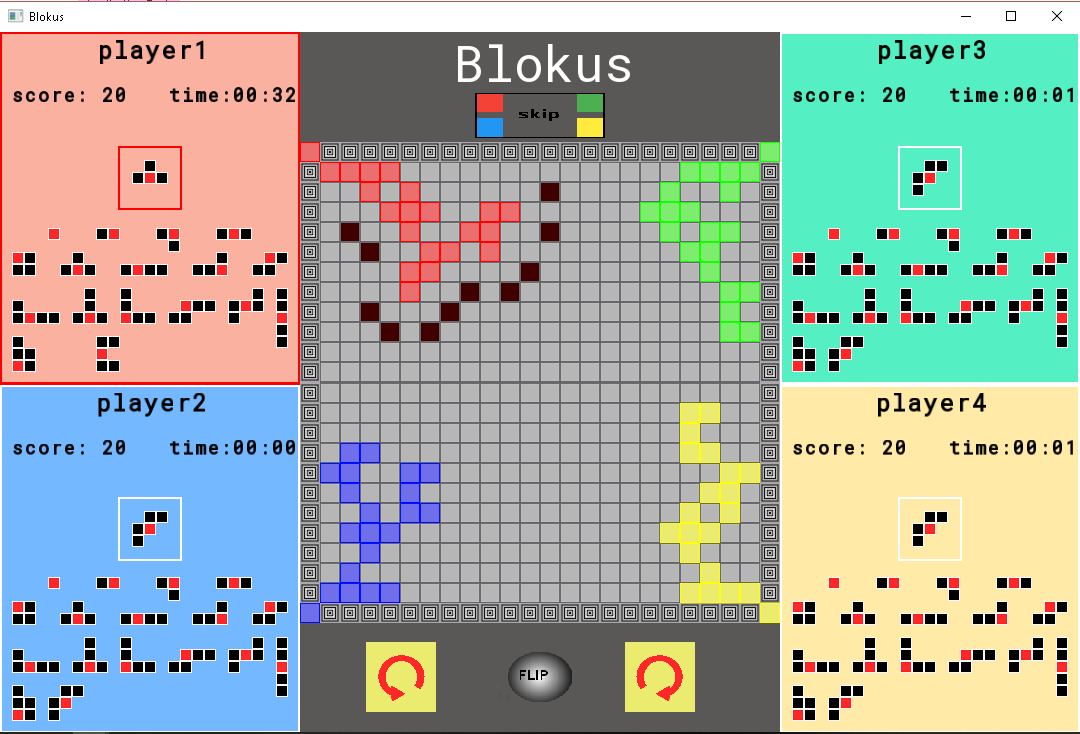
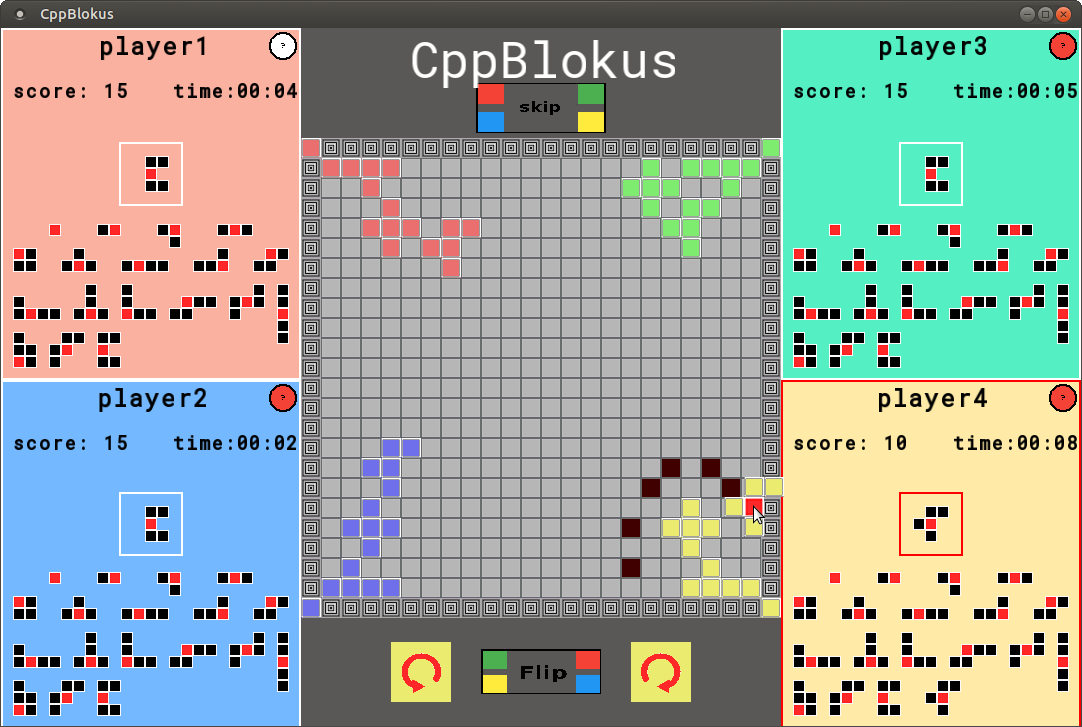
add help buttons

diff --git a/blokus.cc b/blokus.cc
@@ -645,6 +645,7 @@ player set_Player(int id,sf::Color color,int time,tile tiles[]){
   tmp.pboard   =set_Player_Hand(tilesTableWithCenter);
   tmp.canPlay  =true;
   tmp.bot      =false;
+  tmp.showHelp = false;
   return tmp;
 }
 
@@ -709,7 +710,7 @@ int main() {
 
   }
 
-  sf::Text title("Blokus", font, 50);
+  sf::Text title("CppBlokus", font, 50);
   title.setPosition(Vector2f(((window_width/2 - title.getLocalBounds().width/2)),0.0));
 
   RenderWindow window(VideoMode(window_width, window_height), title.getString());
@@ -804,37 +805,13 @@ int main() {
   FooterS.setPosition(Footer.x,Footer.y);
   FooterS.setFillColor(Footer.color);
 
-  /**********************************************************************************/
-
-
-  Rectangle rotate_Clock_WiseR;
-
-  rotate_Clock_WiseR.width  = window_height*0.1;
-  rotate_Clock_WiseR.height = window_height*0.1;
-  rotate_Clock_WiseR.x      = Footer.x+Footer.width/2+Footer.width/4-rotate_Clock_WiseR.width/2;
-  rotate_Clock_WiseR.y      = Footer.y+Footer.height/2-rotate_Clock_WiseR.height/2;;
-
-
-  sf::Texture rotate_Clock_WiseRTexture;
-
-  if (!rotate_Clock_WiseRTexture.loadFromFile("res/CWrotate.png"))
-  {
-    cout << "cant load the Texture file associated to rotate_Clock_Wise button : res/CWrotate.png";
-  }
-
-
-  RectangleShape rotate_Clock_WiseRS;
-
-  rotate_Clock_WiseRS.setSize(Vector2f(rotate_Clock_WiseR.width,rotate_Clock_WiseR.height));
-  rotate_Clock_WiseRS.setPosition(rotate_Clock_WiseR.x,rotate_Clock_WiseR.y);
-  rotate_Clock_WiseRS.setTexture(&rotate_Clock_WiseRTexture);
 
   /********************************************************************************************/
 
   Rectangle skip_turn_buttonR;
 
   skip_turn_buttonR.width   = 130;
-  skip_turn_buttonR.height  = 45;
+  skip_turn_buttonR.height  = 50;
   skip_turn_buttonR.x       = Footer.x+Footer.width/2-skip_turn_buttonR.width/2;
   skip_turn_buttonR.y       = main_board_position_y-skip_turn_buttonR.height-skip_turn_buttonR.height/10;
 
@@ -855,8 +832,8 @@ int main() {
 
   Rectangle flip_tile_buttonR;
 
-  flip_tile_buttonR.width  = window_width*0.1;
-  flip_tile_buttonR.height = window_height*0.1;
+  flip_tile_buttonR.width  = 120;
+  flip_tile_buttonR.height = 45;
   flip_tile_buttonR.x      = Footer.x+Footer.width/2-flip_tile_buttonR.width/2;
   flip_tile_buttonR.y      = Footer.y+(Footer.height/2)-flip_tile_buttonR.height/2;
 
@@ -879,9 +856,9 @@ int main() {
 
   Rectangle rotate_Counter_Clock_WiseR;
 
-  rotate_Counter_Clock_WiseR.width  = window_width*0.1;
-  rotate_Counter_Clock_WiseR.height = window_height*0.1;
-  rotate_Counter_Clock_WiseR.x      = Footer.x+Footer.width/4-rotate_Counter_Clock_WiseR.width/2;
+  rotate_Counter_Clock_WiseR.width  = 60;
+  rotate_Counter_Clock_WiseR.height = 60;
+  rotate_Counter_Clock_WiseR.x      = Footer.x+Footer.width/2- Footer.width/4-rotate_Counter_Clock_WiseR.width/2;
   rotate_Counter_Clock_WiseR.y      = Footer.y+Footer.height/2-rotate_Counter_Clock_WiseR.height/2;;
 
 
@@ -894,10 +871,34 @@ int main() {
 
 
   RectangleShape rotate_Counter_Clock_WiseRS;
-  rotate_Counter_Clock_WiseRS.setSize(Vector2f(rotate_Clock_WiseR.width,rotate_Counter_Clock_WiseR.height));
+  rotate_Counter_Clock_WiseRS.setSize(Vector2f(rotate_Counter_Clock_WiseR.width,rotate_Counter_Clock_WiseR.height));
   rotate_Counter_Clock_WiseRS.setPosition(rotate_Counter_Clock_WiseR.x,rotate_Counter_Clock_WiseR.y);
   rotate_Counter_Clock_WiseRS.setTexture(&rotate_Counter_Clock_WiseRTexture);
 
+  /**********************************************************************************/
+
+
+  Rectangle rotate_Clock_WiseR;
+
+  rotate_Clock_WiseR.width  = 60;
+  rotate_Clock_WiseR.height = 60;
+  rotate_Clock_WiseR.x      = Footer.x+Footer.width/2+Footer.width/4 -rotate_Clock_WiseR.width/2;
+  rotate_Clock_WiseR.y      = Footer.y+Footer.height/2-rotate_Clock_WiseR.height/2;;
+
+
+  sf::Texture rotate_Clock_WiseRTexture;
+
+  if (!rotate_Clock_WiseRTexture.loadFromFile("res/CWrotate.png"))
+  {
+    cout << "cant load the Texture file associated to rotate_Clock_Wise button : res/CWrotate.png";
+  }
+
+
+  RectangleShape rotate_Clock_WiseRS;
+
+  rotate_Clock_WiseRS.setSize(Vector2f(rotate_Clock_WiseR.width,rotate_Clock_WiseR.height));
+  rotate_Clock_WiseRS.setPosition(rotate_Clock_WiseR.x,rotate_Clock_WiseR.y);
+  rotate_Clock_WiseRS.setTexture(&rotate_Clock_WiseRTexture);
 
   /********************************************************************************************/
 
@@ -1115,6 +1116,35 @@ int main() {
 
   }
 
+  /*********************************************************************************************/
+  sf::Texture T_helpoff;
+  if (!T_helpoff.loadFromFile("res/helpoff.png"))
+  {
+    cout << "cant load the Texture file associated to 2 player button  : res/2player.png";
+  }
+
+  sf::Texture T_helpon;
+  if (!T_helpon.loadFromFile("res/helpon.png"))
+  {
+    cout << "cant load the Texture file associated to 2 player button  : res/2player.png";
+  }
+
+
+  RectangleShape playerHelpRS[4];
+
+  Rectangle playerHelp[4];
+  for(int i = 0 ; i < 4; i++){
+  playerHelp[i].width    = 32;
+  playerHelp[i].height   = 32;
+  playerHelp[i].x        = pAreas[i].x+pAreas[i].width - playerHelp[i].width;
+  playerHelp[i].y        = pAreas[i].y ;
+
+
+
+  playerHelpRS[i].setSize(Vector2f(playerHelp[i].width,playerHelp[i].height));
+  playerHelpRS[i].setPosition(playerHelp[i].x,playerHelp[i].y);
+  playerHelpRS[i].setTexture(&T_helpoff);
+}
   /********************************************************************************************/
 
   sf::Text player_score_display[4];
@@ -1330,6 +1360,7 @@ int main() {
 
 /**********************************************************************************************************/
     if(players[current_player].canPlay&&players[current_player].bot&&start_game){
+      std::this_thread::sleep_for(std::chrono::milliseconds(200));
 
       chrono[current_player].resume();
 
@@ -1483,12 +1514,11 @@ change_piece_total_tests=0;
     }
 
 /***************************************************************************************************/
-if(!players[current_player].bot&&players[current_player].canPlay){
+if(!players[current_player].bot&&players[current_player].canPlay&&players[current_player].showHelp){
   for(int p = 0 ; p < 4; p++ ){
     for(int i = 1;i<23;i++){
       for(int j = 1;j<23;j++){
         if(is_Valid(players[current_player].Hand[idp[current_player]-1],GameBoard,i+positionx[p],j+positionx[p],players[current_player].id)){
-
           GameBoard.matrix[i+positionx[p]][j+positionx[p]] = 5;
           GameBoard                  = to_Board(GameBoard.matrix);
 
@@ -1521,7 +1551,7 @@ if(!players[current_player].bot&&players[current_player].canPlay){
 
 
 
-      if (event.type == sf::Event::MouseButtonPressed&&players[current_player].canPlay&&start_game&&!players[current_player].bot) {
+      if (event.type == sf::Event::MouseButtonPressed &&players[current_player].canPlay&&start_game&&!players[current_player].bot) {
         chrono[current_player].resume();
 
         for(int i = 1 ; i< main_board_size-1 ; i++){
@@ -1593,7 +1623,18 @@ if(!players[current_player].bot&&players[current_player].canPlay){
           rotatesound.play();
 
         }
+        if(MousPosx<playerHelp[current_player].x + playerHelp[current_player].width &&MousPosx>playerHelp[current_player].x &&MousPosy<playerHelp[current_player].y+playerHelp[current_player].height&&MousPosy>playerHelp[current_player].y){
 
+          if(!players[current_player].showHelp){
+            players[current_player].showHelp = true;
+            playerHelpRS[current_player].setTexture(&T_helpon);
+
+          }else{
+            players[current_player].showHelp = false;
+            playerHelpRS[current_player].setTexture(&T_helpoff);
+
+          }
+        }
         if(MousPosx<rotate_Counter_Clock_WiseR.x + rotate_Counter_Clock_WiseR.width &&MousPosx>rotate_Counter_Clock_WiseR.x &&MousPosy<rotate_Counter_Clock_WiseR.y+rotate_Counter_Clock_WiseR.height&&MousPosy>rotate_Counter_Clock_WiseR.y){
 
           players[current_player].Hand[idp[current_player]-1] = rotate_Counter_Clock_Wise(players[current_player].Hand[idp[current_player]-1]);
@@ -1695,9 +1736,6 @@ if(!players[current_player].bot&&players[current_player].canPlay){
 
         int MousPosx = (int)  sf::Mouse::getPosition(window).x;
         int MousPosy = (int)  sf::Mouse::getPosition(window).y;
-        for(int i=0; i<4 ; i++)
-      {        chrono[i].pause();
-      }
 
         if (event.type == sf::Event::MouseButtonPressed) {
 
@@ -1712,6 +1750,12 @@ if(!players[current_player].bot&&players[current_player].canPlay){
 
 
 }
+
+
+
+
+
+
     //*************************************************************************************************************
 
     //handling time in the game for each player
@@ -1802,6 +1846,7 @@ if(!players[current_player].bot&&players[current_player].canPlay){
           window.draw(player_score_display[i]);
           window.draw(player_clock_display[i]);
           window.draw(contain[i]);
+          window.draw(playerHelpRS[i]);
         }
         if(!players[current_player].bot&&players[current_player].canPlay){
         if(sf::Mouse::getPosition(window).x >main_board_position_x&&sf::Mouse::getPosition(window).x <main_board_position_x+main_board_width&&sf::Mouse::getPosition(window).y >main_board_position_y&&sf::Mouse::getPosition(window).y <main_board_position_y+main_board_height){
